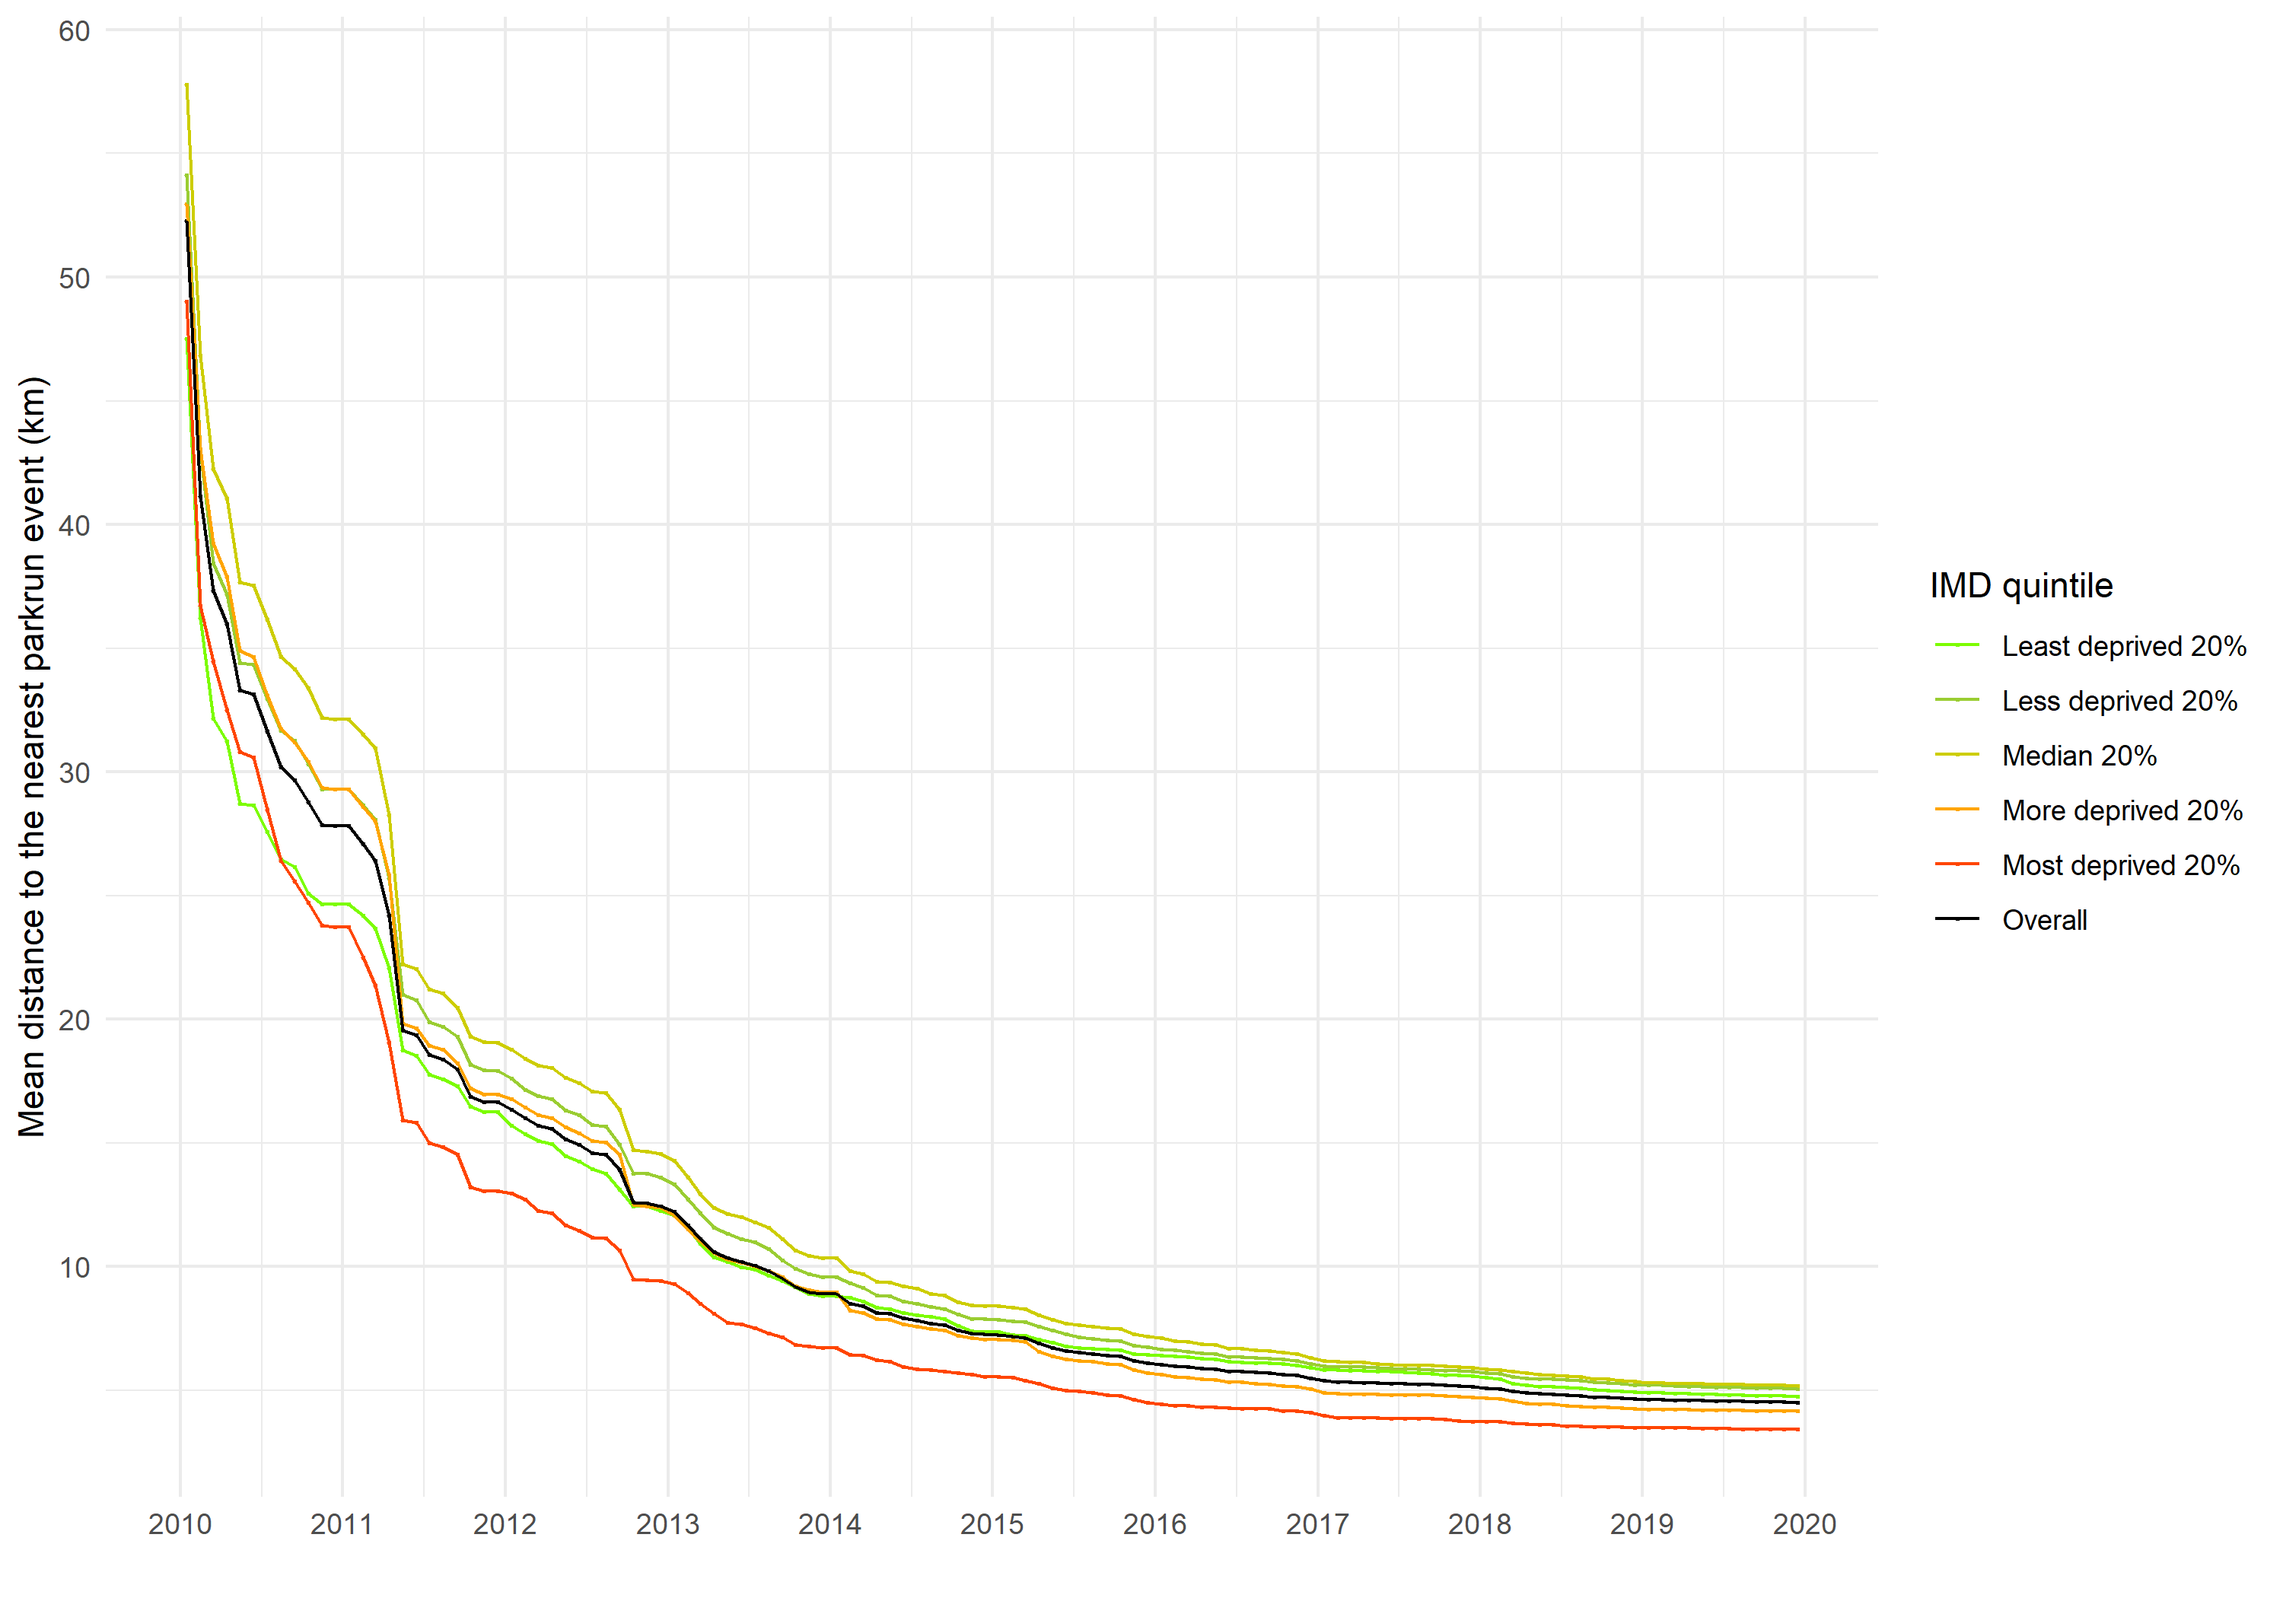
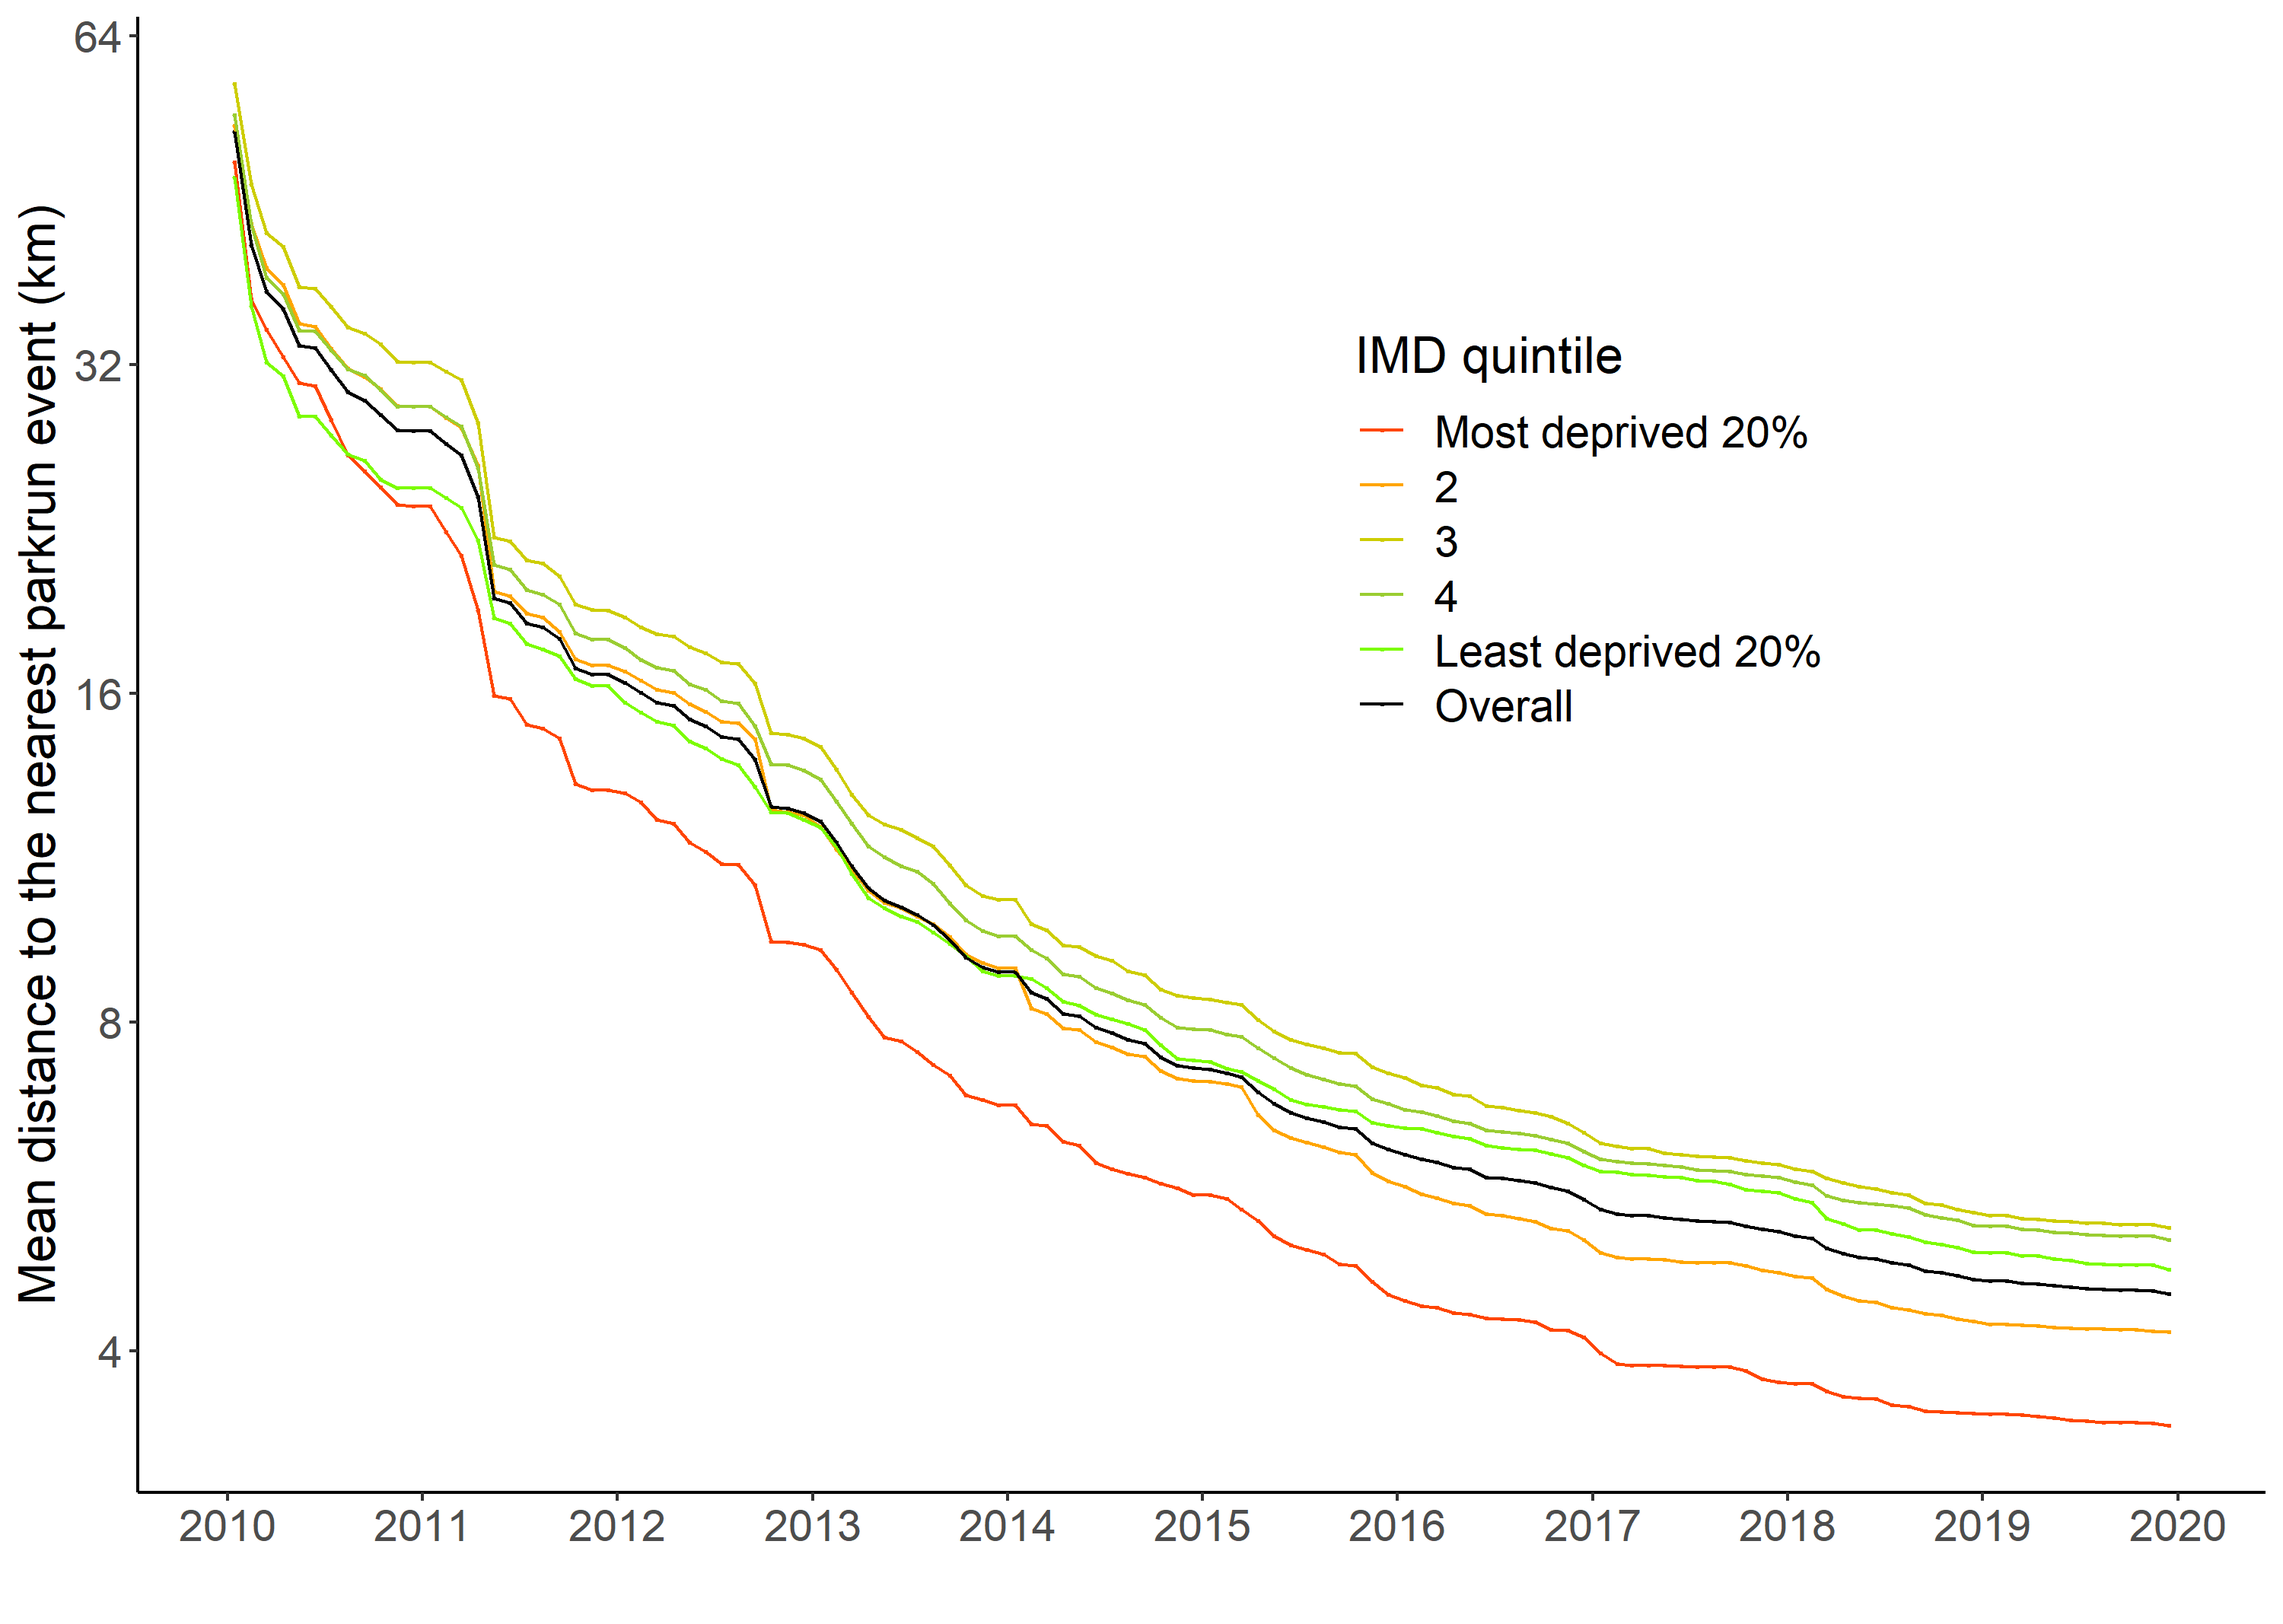
reordering plot legends.

diff --git a/outputs/Table1_access.html b/outputs/Table1_access.html
@@ -1,10 +1,10 @@
 
 <table style="text-align:center"><tr><td colspan="11" style="border-bottom: 1px solid black"></td></tr><tr><td style="text-align:left">Overall</td><td>34.09 (0.06)</td><td>20.79 (0.04)</td><td>14.53 (0.03)</td><td>10.21 (0.02)</td><td>7.93 (0.01)</td><td>6.66 (0.01)</td><td>5.79 (0.01)</td><td>5.27 (0.01)</td><td>4.85 (0.01)</td><td>4.58 (0.01)</td></tr>
 <tr><td style="text-align:left">Most deprived 20%</td><td>30.57 (0.13)</td><td>16.84 (0.08)</td><td>11.21 (0.05)</td><td>7.72 (0.03)</td><td>6.02 (0.02)</td><td>5.03 (0.02)</td><td>4.29 (0.01)</td><td>3.86 (0.01)</td><td>3.6 (0.01)</td><td>3.46 (0.01)</td></tr>
-<tr><td style="text-align:left">More deprived 20%</td><td>35.64 (0.17)</td><td>21.52 (0.11)</td><td>14.86 (0.07)</td><td>10.19 (0.05)</td><td>7.72 (0.03)</td><td>6.36 (0.02)</td><td>5.35 (0.02)</td><td>4.82 (0.02)</td><td>4.43 (0.02)</td><td>4.2 (0.02)</td></tr>
-<tr><td style="text-align:left">Median 20%</td><td>38.82 (0.15)</td><td>23.94 (0.1)</td><td>16.9 (0.07)</td><td>11.95 (0.04)</td><td>9.18 (0.03)</td><td>7.77 (0.03)</td><td>6.73 (0.02)</td><td>6.05 (0.02)</td><td>5.61 (0.02)</td><td>5.25 (0.02)</td></tr>
-<tr><td style="text-align:left">Less deprived 20%</td><td>35.52 (0.13)</td><td>22.2 (0.08)</td><td>15.7 (0.06)</td><td>11.12 (0.04)</td><td>8.61 (0.03)</td><td>7.29 (0.02)</td><td>6.39 (0.02)</td><td>5.88 (0.02)</td><td>5.44 (0.02)</td><td>5.13 (0.01)</td></tr>
 <tr><td style="text-align:left">Least deprived 20%</td><td>29.92 (0.1)</td><td>19.46 (0.06)</td><td>13.98 (0.04)</td><td>10.09 (0.03)</td><td>8.11 (0.02)</td><td>6.85 (0.02)</td><td>6.18 (0.02)</td><td>5.73 (0.02)</td><td>5.16 (0.01)</td><td>4.84 (0.01)</td></tr>
+<tr><td style="text-align:left">4</td><td>35.52 (0.13)</td><td>22.2 (0.08)</td><td>15.7 (0.06)</td><td>11.12 (0.04)</td><td>8.61 (0.03)</td><td>7.29 (0.02)</td><td>6.39 (0.02)</td><td>5.88 (0.02)</td><td>5.44 (0.02)</td><td>5.13 (0.01)</td></tr>
+<tr><td style="text-align:left">3</td><td>38.82 (0.15)</td><td>23.94 (0.1)</td><td>16.9 (0.07)</td><td>11.95 (0.04)</td><td>9.18 (0.03)</td><td>7.77 (0.03)</td><td>6.73 (0.02)</td><td>6.05 (0.02)</td><td>5.61 (0.02)</td><td>5.25 (0.02)</td></tr>
+<tr><td style="text-align:left">2</td><td>35.64 (0.17)</td><td>21.52 (0.11)</td><td>14.86 (0.07)</td><td>10.19 (0.05)</td><td>7.72 (0.03)</td><td>6.36 (0.02)</td><td>5.35 (0.02)</td><td>4.82 (0.02)</td><td>4.43 (0.02)</td><td>4.2 (0.02)</td></tr>
 <tr><td colspan="11" style="border-bottom: 1px solid black"></td></tr></table>
 
 <table style="text-align:center"><tr><td colspan="1" style="border-bottom: 1px solid black"></td></tr><tr><td>html</td></tr>
